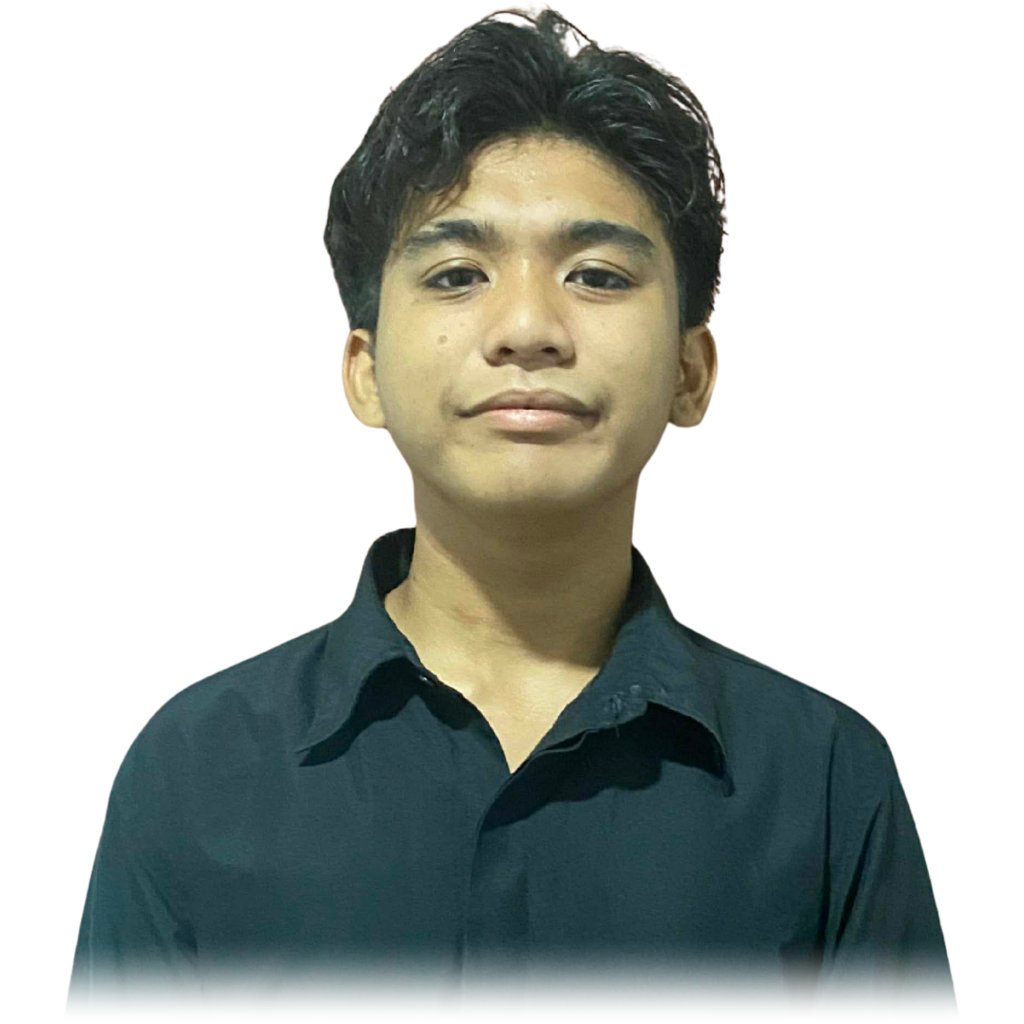
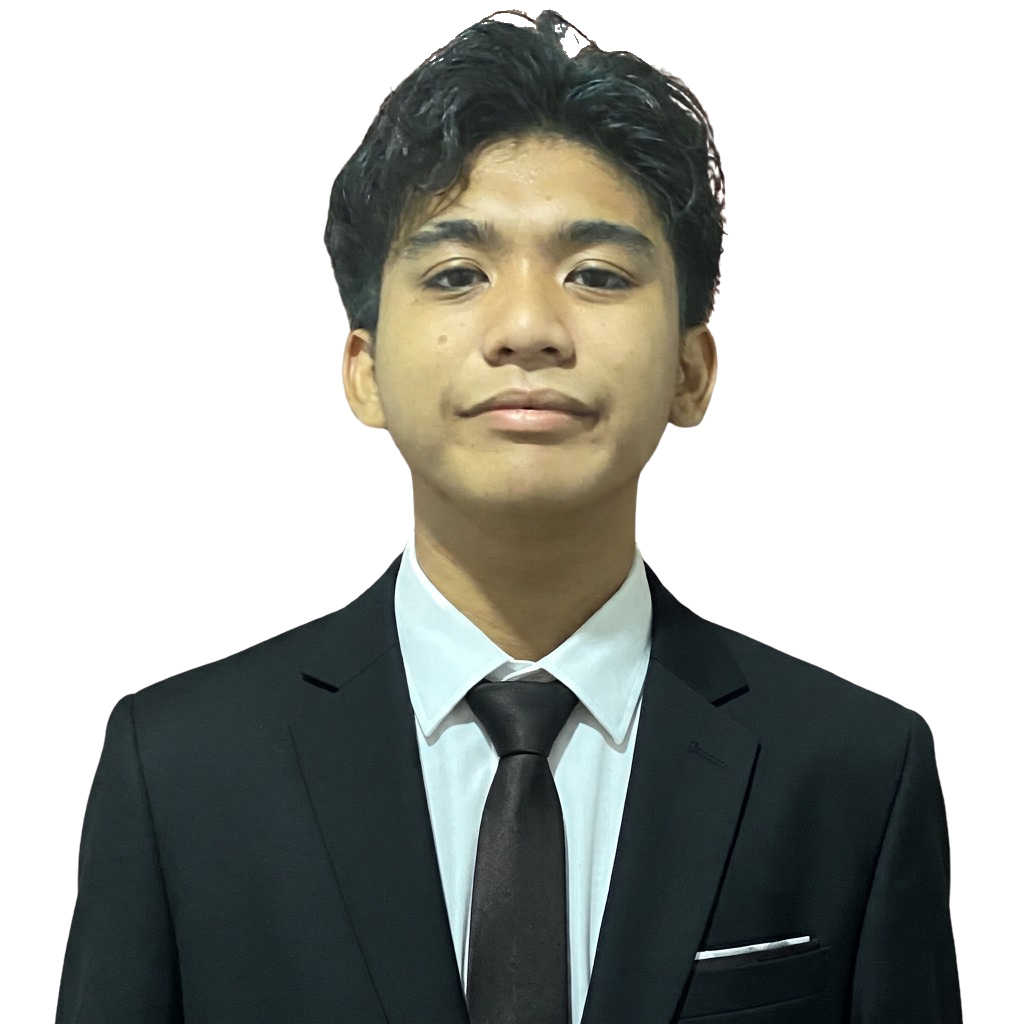
feat: restore clean frameless Home layout with 1/3-width formal suit portrait

diff --git a/index.html b/index.html
@@ -1360,167 +1360,56 @@
 <div id="deck-wrapper" class="deck-wrapper">
   <div class="deck-slide active" id="slide-0" data-slide="0" data-hash="home" data-title="HOME">
     <div class="deck-slide-inner deck-slide-inner--hero">
-      <section class="w-full select-none py-1 sm:py-2" id="home">
-        <div class="w-full max-w-[1240px] mx-auto px-4 sm:px-6 lg:px-8">
+      <section class="w-full select-none" id="home">
+        <div class="w-full max-w-[1040px] mx-auto px-4 sm:px-6 lg:px-8">
           
-          <!-- Master 1/3 + 2/3 Tech Hero Layout -->
-          <div class="grid grid-cols-1 lg:grid-cols-12 gap-5 lg:gap-8 items-center reveal-on-scroll">
+          <!-- Top Hero Group: 1/3 Width Frameless Portrait + Typography & Bio closely coupled -->
+          <div class="flex flex-col sm:flex-row items-center justify-center gap-6 sm:gap-10 lg:gap-14">
             
-            <!-- LEFT COLUMN (1/3 Width = 4 Cols on Desktop): Prominent Tech HUD Portrait -->
-            <div class="lg:col-span-4 flex justify-center">
-              <div class="relative w-full max-w-[320px] sm:max-w-[340px] lg:max-w-none rounded-2xl bg-surface-container-lowest border border-outline/25 p-3.5 sm:p-4 shadow-xl overflow-hidden group">
-                
-                <!-- Tactical HUD Reticles -->
-                <div class="absolute top-2 left-2 text-[8.5px] font-mono-code text-primary/35 select-none pointer-events-none">┌ [SYS_ID: 24-0812]</div>
-                <div class="absolute top-2 right-2 text-[8.5px] font-mono-code text-primary/35 select-none pointer-events-none">[SEC_OPS] ┐</div>
-
-                <!-- Top Telemetry Status -->
-                <div class="flex items-center justify-between pb-2 mb-2 border-b border-surface-container/60 pt-1">
-                  <div class="flex items-center gap-1.5">
-                    <span class="w-2 h-2 rounded-full bg-emerald-500 animate-pulse"></span>
-                    <span class="font-mono-code text-[10px] text-emerald-500 font-semibold tracking-wider">OPERATOR // ONLINE</span>
-                  </div>
-                  <span class="font-mono-code text-[9.5px] text-secondary">CLEARANCE: L1</span>
-                </div>
-
-                <!-- Portrait Frame: One-Third Width Display -->
-                <div class="relative w-full aspect-[4/4.8] sm:aspect-[4/5] rounded-xl overflow-hidden bg-gradient-to-b from-surface-container-low/60 via-surface-container-lowest to-surface-container-lowest border border-outline/20 flex items-end justify-center">
-                  <!-- Radial cyber glow & subtle grid pattern -->
-                  <div class="absolute inset-0 bg-[radial-gradient(ellipse_at_top,_var(--tw-gradient-stops))] from-primary/15 via-transparent to-transparent pointer-events-none"></div>
-                  <div class="absolute inset-0 opacity-15 bg-[linear-gradient(to_right,#80808015_1px,transparent_1px),linear-gradient(to_bottom,#80808015_1px,transparent_1px)] bg-[size:16px_16px] pointer-events-none"></div>
-
-                  <!-- Lance Formal Suit Portrait -->
-                  <img src="lance-suit-portrait.png" alt="Lance De Vera" class="w-full h-full object-cover object-top filter contrast-[1.03] transition-transform duration-500 group-hover:scale-[1.02]" />
-
-                  <!-- Bottom Vignette -->
-                  <div class="absolute inset-x-0 bottom-0 h-16 bg-gradient-to-t from-surface-container-lowest via-surface-container-lowest/80 to-transparent pointer-events-none"></div>
-
-                  <!-- Floating Glass Identity Plate -->
-                  <div class="absolute bottom-2 left-2 right-2 flex items-center justify-between px-2.5 py-1.5 rounded-lg bg-black/75 backdrop-blur-md border border-white/10 text-[10px] font-mono-code text-white shadow-md">
-                    <div>
-                      <div class="font-bold text-[11px] leading-tight text-white tracking-wide">LANCE DE VERA</div>
-                      <div class="text-[9px] text-secondary tracking-normal">Security &amp; Systems Engineer</div>
-                    </div>
-                    <span class="px-2 py-0.5 rounded bg-emerald-500/20 text-emerald-400 text-[9px] font-semibold border border-emerald-500/30">
-                      BSIT • NETSEC
-                    </span>
-                  </div>
-                </div>
-
-                <!-- Quick Status Readout -->
-                <div class="pt-2.5 mt-2 border-t border-surface-container/60 flex items-center justify-between text-[10px] font-mono-code text-secondary">
-                  <span>CITCS • UC BAGUIO</span>
-                  <span class="text-primary font-semibold">1st Year Enrolled</span>
-                </div>
-
+            <!-- Frameless Portrait: Exactly 1/3 Width of Layout (~350px on desktop) -->
+            <div class="shrink-0 flex items-center justify-center w-full sm:w-auto">
+              <div class="relative w-[210px] sm:w-[280px] md:w-[320px] lg:w-[360px] flex items-center justify-center group">
+                <img id="halftone-pfp-img" src="lance-suit-portrait.png" alt="Lance De Vera" class="w-full h-auto object-contain transition-transform duration-300 group-hover:scale-[1.02] pointer-events-none select-none filter contrast-[1.02]" style="border:none!important;background:transparent!important;box-shadow:none!important;outline:none!important;" />
               </div>
             </div>
 
-            <!-- RIGHT COLUMN (2/3 Width = 8 Cols on Desktop): Tech Dossier, Achievements & Navigation -->
-            <div class="lg:col-span-8 flex flex-col justify-center text-left space-y-3 sm:space-y-3.5">
+            <!-- Hero Typography, Bio, and Lowercase Socials with ↗ -->
+            <div class="flex flex-col justify-center text-center sm:text-left flex-1 min-w-0">
+              <div class="flex items-center justify-center sm:justify-start gap-2 mb-2.5 font-mono-code">
+                <span class="w-1.5 h-1.5 bg-primary"></span>
+                <span class="text-[9.5px] uppercase px-2 py-0.5 border border-primary/30 text-primary tracking-widest">[SYS_ID: LDEV-SEC // 2026]</span>
+              </div>
               
-              <!-- System Directive Chip & Status -->
-              <div class="flex flex-wrap items-center gap-2 font-mono-code text-[10.5px]">
-                <span class="px-2.5 py-0.5 rounded-full bg-primary/10 border border-primary/25 text-primary font-semibold flex items-center gap-1.5">
-                  <span class="w-1.5 h-1.5 rounded-full bg-primary animate-pulse"></span>
-                  [SYS_ID: LDEV-SEC // 2026]
-                </span>
-                <span class="text-secondary">•</span>
-                <span class="text-secondary">ZERO-TRUST ARCHITECTURE</span>
-                <span class="text-secondary hidden sm:inline">•</span>
-                <span class="text-emerald-500 font-semibold hidden sm:inline">DEFENSIVE SECURITY</span>
+              <h1 class="font-display-hero text-[36px] sm:text-[48px] lg:text-[54px] font-bold tracking-tight text-primary leading-[0.94] select-none">
+                Lance<br class="hidden sm:inline" /> De Vera
+              </h1>
+
+              <p class="font-headline-md text-[13.5px] sm:text-[15.5px] text-primary font-medium tracking-tight mt-2.5">
+                Engineering systems. Securing networks. Building the future.<span class="cli-cursor"></span>
+              </p>
+
+              <p class="font-body-lg text-[12px] sm:text-[13px] text-secondary leading-relaxed mt-2.5 max-w-[480px] opacity-85">
+                Specializing in defensive security, zero-trust architecture, and resilient cloud systems at the University of the Cordilleras.
+              </p>
+
+              <!-- Minimal Lowercase Social Links with Arrows ↗ -->
+              <div class="flex flex-wrap items-center justify-center sm:justify-start gap-4 sm:gap-5 mt-4 sm:mt-5 pt-0.5 font-mono-code text-[11.5px] sm:text-[12.5px] text-secondary">
+                <a href="https://github.com/CLAEN1215" target="_blank" rel="noopener noreferrer" class="hover:text-primary transition-colors flex items-center gap-1 group">
+                  <span>github</span> <span class="text-xs group-hover:translate-x-0.5 group-hover:-translate-y-0.5 transition-transform">↗</span>
+                </a>
+                <a href="https://www.linkedin.com/in/lance-de-vera" target="_blank" rel="noopener noreferrer" class="hover:text-primary transition-colors flex items-center gap-1 group">
+                  <span>linkedin</span> <span class="text-xs group-hover:translate-x-0.5 group-hover:-translate-y-0.5 transition-transform">↗</span>
+                </a>
+                <a href="https://www.facebook.com/lance.de.vera.658636/" target="_blank" rel="noopener noreferrer" class="hover:text-primary transition-colors flex items-center gap-1 group">
+                  <span>facebook</span> <span class="text-xs group-hover:translate-x-0.5 group-hover:-translate-y-0.5 transition-transform">↗</span>
+                </a>
+                <a href="mailto:dvlance112208@gmail.com" class="hover:text-primary transition-colors flex items-center gap-1 group">
+                  <span>email</span> <span class="text-xs group-hover:translate-x-0.5 group-hover:-translate-y-0.5 transition-transform">↗</span>
+                </a>
               </div>
-
-              <!-- Hero Headline -->
-              <div>
-                <h1 class="font-display-hero text-[32px] sm:text-[42px] lg:text-[48px] font-bold tracking-tight text-primary leading-[0.94] select-none">
-                  Lance De Vera
-                </h1>
-                <p class="font-headline-md text-[13.5px] sm:text-[15px] text-primary font-medium tracking-tight mt-1.5">
-                  Engineering systems. Securing networks. Building the future.<span class="cli-cursor"></span>
-                </p>
-                <p class="font-body-lg text-[11.5px] sm:text-[12.5px] text-secondary leading-relaxed mt-1.5 max-w-[620px]">
-                  Undergraduate in Information Technology majoring in Network and Security at the University of the Cordilleras. Focused on defensive cyber operations, Linux system administration, and zero-trust cloud infrastructure.
-                </p>
-              </div>
-
-              <!-- ACHIEVEMENTS & HONORS STRIP (Explicitly Requested) -->
-              <div class="p-3 sm:p-3.5 rounded-xl bg-surface-container-lowest border border-outline/25 shadow-sm space-y-2">
-                <div class="flex items-center justify-between border-b border-surface-container/50 pb-1.5">
-                  <div class="flex items-center gap-1.5">
-                    <span class="material-symbols-outlined text-[15px] text-amber-400">military_tech</span>
-                    <span class="font-mono-code text-[11px] font-bold text-primary uppercase tracking-wider">Verified Achievements &amp; Honors</span>
-                  </div>
-                  <button type="button" onclick="document.getElementById('milestones-modal').classList.remove('hidden'); document.getElementById('milestones-modal').classList.add('flex');" class="text-[10px] font-mono-code text-amber-400 hover:underline flex items-center gap-1 cursor-pointer">
-                    <span>[Inspect Official Certificates ↗]</span>
-                  </button>
-                </div>
-
-                <div class="grid grid-cols-1 sm:grid-cols-3 gap-2 font-mono-code text-[10.5px]">
-                  <div class="p-2 rounded-lg bg-surface-container-low/50 border border-outline/15">
-                    <div class="flex items-center gap-1 text-amber-400 font-bold mb-0.5">
-                      <span>★</span>
-                      <span class="text-primary font-semibold text-[11px] truncate">PEN Integrity Award</span>
-                    </div>
-                    <p class="text-[9.5px] text-secondary leading-tight truncate">Leadership Distinction • UPang</p>
-                  </div>
-
-                  <div class="p-2 rounded-lg bg-surface-container-low/50 border border-outline/15">
-                    <div class="flex items-center gap-1 text-amber-400 font-bold mb-0.5">
-                      <span>★</span>
-                      <span class="text-primary font-semibold text-[11px] truncate">Academic Excellence</span>
-                    </div>
-                    <p class="text-[9.5px] text-secondary leading-tight truncate">With Honors (Grades 11 &amp; 12)</p>
-                  </div>
-
-                  <div class="p-2 rounded-lg bg-surface-container-low/50 border border-outline/15">
-                    <div class="flex items-center gap-1 text-amber-400 font-bold mb-0.5">
-                      <span>★</span>
-                      <span class="text-primary font-semibold text-[11px] truncate">Exemplary Chairmanship</span>
-                    </div>
-                    <p class="text-[9.5px] text-secondary leading-tight truncate">PIXELS Arts &amp; Media Club</p>
-                  </div>
-                </div>
-              </div>
-
-              <!-- Focus Badges + CTAs + Social Links -->
-              <div class="flex flex-wrap items-center justify-between gap-3 pt-1">
-                <!-- Action CTA Buttons -->
-                <div class="flex items-center gap-2.5">
-                  <button type="button" onclick="window.DeckController.goToSlide(1)" class="inline-flex items-center gap-1.5 px-3.5 py-1.5 rounded-xl bg-primary text-on-primary font-mono-code text-[11px] font-semibold hover:opacity-90 transition-opacity shadow-sm cursor-pointer">
-                    <span>Explore About Me</span>
-                    <span class="material-symbols-outlined text-[14px]">arrow_forward</span>
-                  </button>
-                  <button type="button" onclick="document.getElementById('milestones-modal').classList.remove('hidden'); document.getElementById('milestones-modal').classList.add('flex');" class="inline-flex items-center gap-1.5 px-3 py-1.5 rounded-xl bg-surface-container-low border border-outline/30 hover:border-amber-400/50 text-amber-400 font-mono-code text-[11px] transition-colors shadow-sm cursor-pointer">
-                    <span class="material-symbols-outlined text-[14px]">military_tech</span>
-                    <span>Certificates</span>
-                  </button>
-                </div>
-
-                <!-- Lowercase Social Links with ↗ -->
-                <div class="flex items-center gap-3.5 font-mono-code text-[11.5px] text-secondary">
-                  <a href="https://github.com/CLAEN1215" target="_blank" rel="noopener noreferrer" class="hover:text-primary transition-colors flex items-center gap-1 group">
-                    <span>github</span> <span class="text-xs group-hover:translate-x-0.5 group-hover:-translate-y-0.5 transition-transform">↗</span>
-                  </a>
-                  <a href="https://www.linkedin.com/in/lance-de-vera" target="_blank" rel="noopener noreferrer" class="hover:text-primary transition-colors flex items-center gap-1 group">
-                    <span>linkedin</span> <span class="text-xs group-hover:translate-x-0.5 group-hover:-translate-y-0.5 transition-transform">↗</span>
-                  </a>
-                  <a href="mailto:dvlance112208@gmail.com" class="hover:text-primary transition-colors flex items-center gap-1 group">
-                    <span>email</span> <span class="text-xs group-hover:translate-x-0.5 group-hover:-translate-y-0.5 transition-transform">↗</span>
-                  </a>
-                </div>
-              </div>
-
             </div>
 
           </div>
-
-        </div>
-      </section>
-    </div>
-  </div>
-
-</div>
 
         </div>
       </section>
@@ -5361,7 +5250,7 @@
   if (!pfpImg) return;
 
   function updateThemePortrait() {
-    const targetSrc = 'lance-formal-portrait.png?v=4';
+    const targetSrc = 'lance-suit-portrait.png?v=5';
     if (!pfpImg.src.endsWith(targetSrc)) {
       pfpImg.src = targetSrc;
     }
